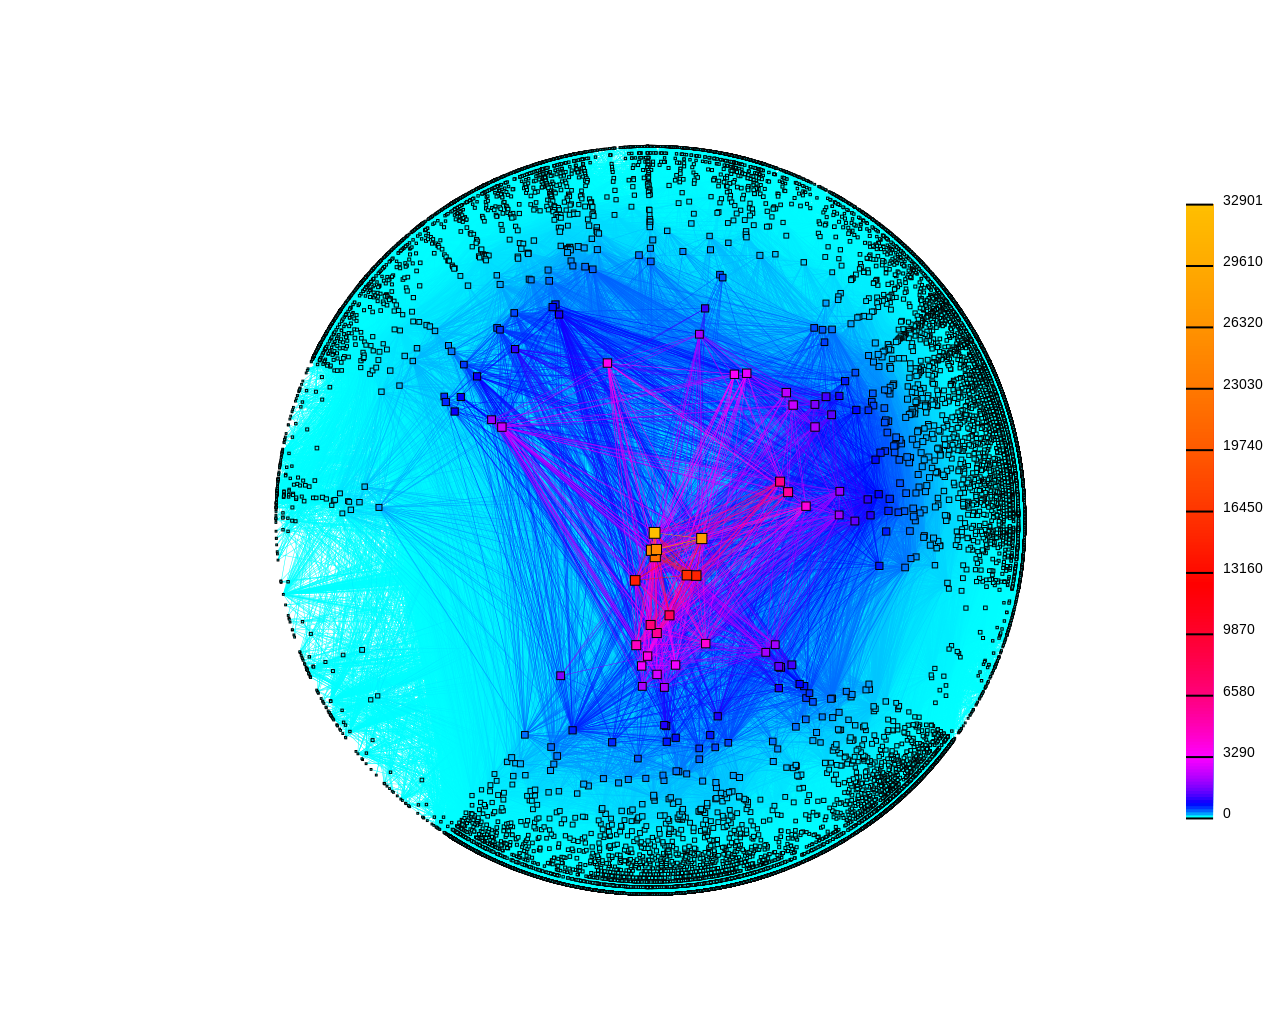
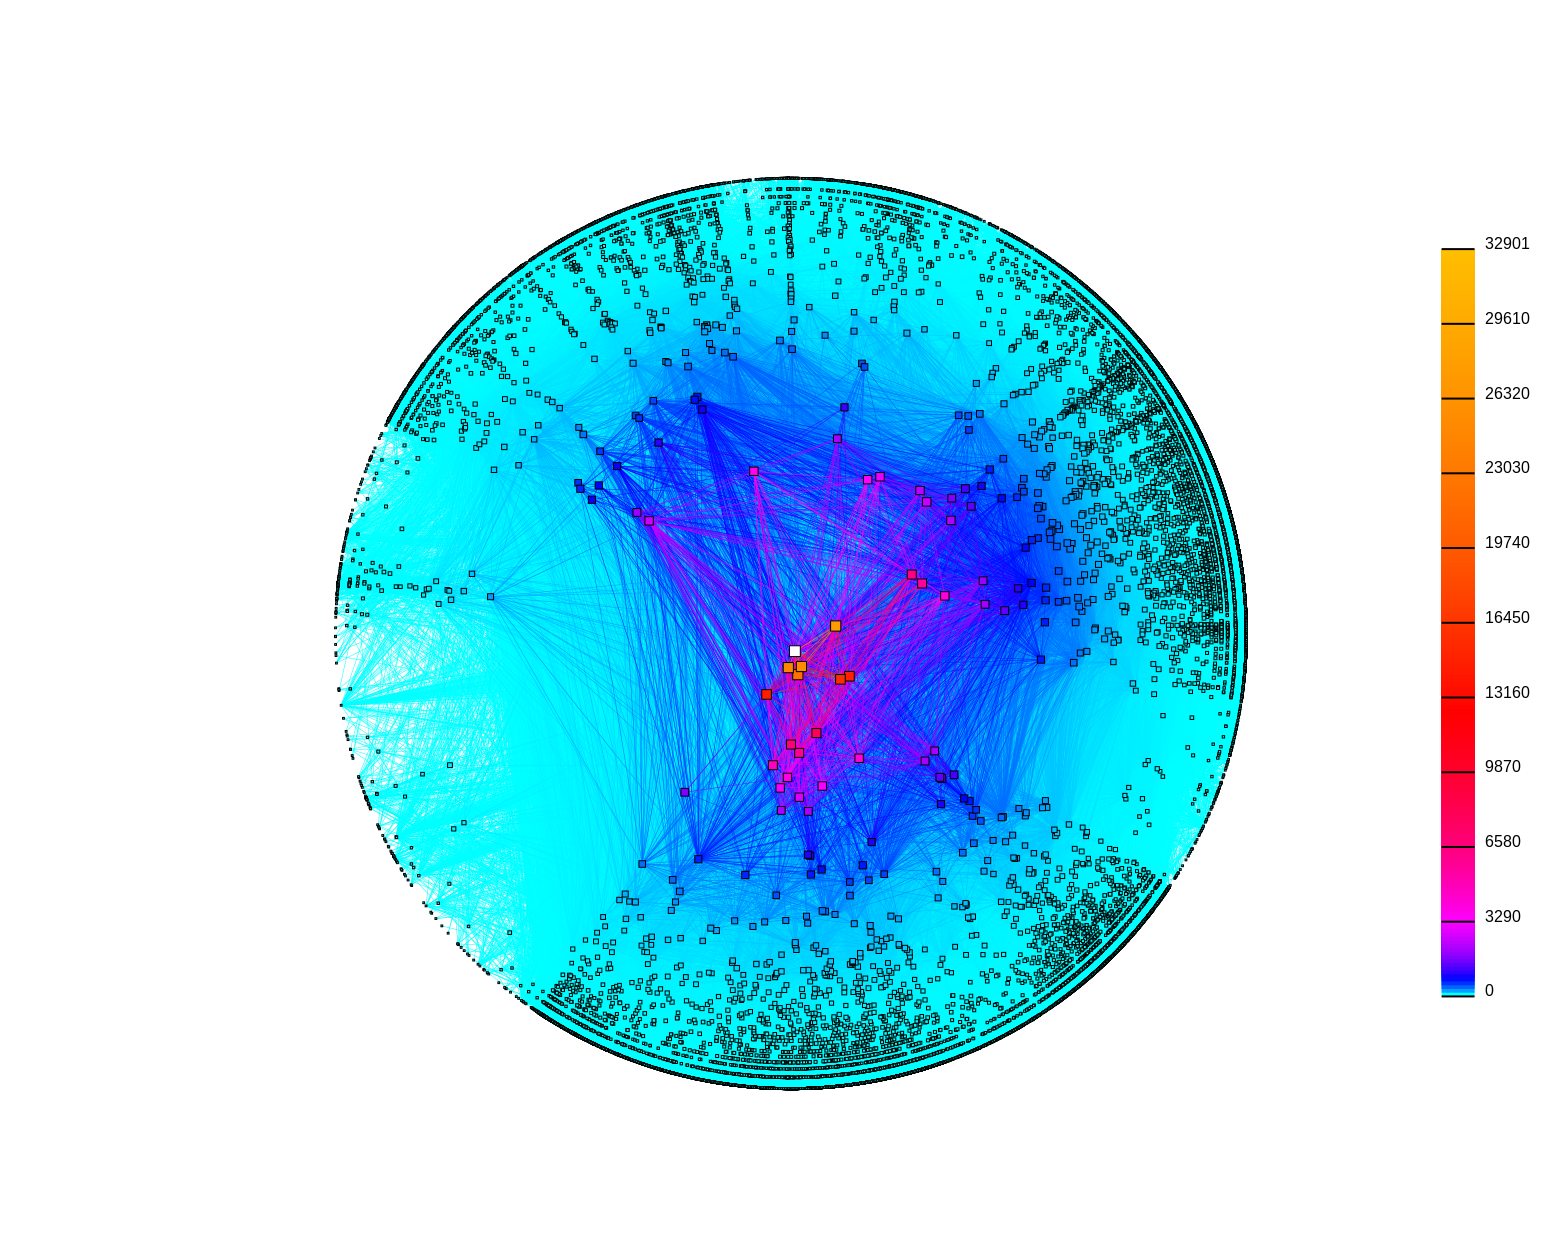
fixing fisheye effect

diff --git a/as-core-graph.py b/as-core-graph.py
@@ -42,7 +42,7 @@ def main(argv):
     #parser.add_argument("-l", type=str, dest="links", help="loads in the asn links file")
     #parser.add_argument("-a", type=str, dest="asns", help="loads in the asn links file")
     parser.add_argument("-u", type=str, dest="url", help="loads in the API url")
-    parser.add_argument("-f", type=int, dest="focus", help="number of AS to focus on using fisheye effect")
+    parser.add_argument("-f", type=int, nargs='?', const=-1, dest="focus", help="number of AS to focus on using fisheye effect")
     parser.add_argument("-k", dest="print_key", help="prints out color key for visualization", action="store_true")
     parser.add_argument("-v", dest="verbose", help="prints out lots of messages", action="store_true")
     args = parser.parse_args()
@@ -51,11 +51,12 @@ def main(argv):
         print_help()
         sys.exit()
 
-    if args.focus is None:
-        print_Help()
-        sys.exit()
-    else:
-        focus_asn = args.focus
+    if args.focus is not None:    
+        if args.focus > -1:
+            focus_asn = args.focus
+        else: 
+            print_help()
+            sys.exit()
 
     if args.print_key:
         print_key = True
@@ -220,7 +221,6 @@ def SetUpPosition():
     for AS in asns:
         value = key_function(AS)
         angle = -2 * 3.14 * float(AS["longitude"]) / 360
-        AS["angle"] = angle
         radius = (math.log(max_value+1) - math.log(value+1) +.5)*100
         size = int((MAX_SIZE-3)* (math.log(value+1)/math.log(max_value+1)) )+3;
         #calculate new x and y using polar coordinate math
@@ -236,12 +236,11 @@ def SetUpPosition():
             focus_x = AS["x"]
             focus_y = AS["y"]
     for AS in asns:
+        x = AS["x"]
+        y = AS["y"]
         #remap asns if using fisheye effect
         if focus_asn > -1:
-            x = AS["x"]
-            y = AS["y"]
-            angle = AS["angle"]
-            new_coords = FishEye(x, y, AS["angle"], focus_x, focus_y)
+            new_coords = FishEye(x, y, focus_x, focus_y)
             AS["x"]  = x = new_coords[0]
             AS["y"]  = y = new_coords[1]
         #adjust min and max x based on new X
@@ -260,13 +259,13 @@ def SetUpPosition():
             min_y = y
         elif y+size > max_y: 
             max_y = y+size
-
+    
     #increase min max x y slightly, move all ASNes to adjust 
     min_x += min_x*.05
     min_y += min_y*.05
     for AS in asns:
         AS["x"] -= min_x
-        AS["y"] -= min_y
+        AS["y"] -= min_y  
     max_x -= min_x
     max_y -= min_y
     min_x = min_y = 0
@@ -411,18 +410,21 @@ def hsv2rgb (new_h, new_s, new_v):
         b = v * (255 - s * f)
     return [r, g, b]
 #helper function to apply fisheye effect to a pair of xy coordinates 
-def FishEye(x, y, angle, focus_x, focus_y):
-    #focal length of the "lens"    
-    r = math.sqrt(math.pow(x - focus_x, 2) + math.pow(y-focus_y, 2))
-    f = 500
+def FishEye(x, y, focus_x, focus_y):
+    #calculate distance and angle from focus point 
+    angle = math.atan2(y - focus_y, x - focus_x) 
+    r = math.sqrt(math.pow(x-focus_x, 2) + math.pow(y - focus_y, 2))
+    #focal length of the "lens"  
+    f = 750
     #angle from optical axis
-    theta = math.atan(r/f)
+    theta = math.atan2(r,f)
+    #calculate new distance from focus point
     new_r = math.tan(theta/2) * 2 * f
     #new_r = theta * f    
     #new_r = 2 * f * math.sin(theta/2)
     #new_r = f * math.sin(theta)    
-    new_x = focus_x + new_r * math.cos(angle)
-    new_y = focus_y + new_r * math.sin(angle)  
+    new_x = focus_x + (new_r * math.cos(angle))
+    new_y = focus_y + (new_r * math.sin(angle)) 
     return (new_x, new_y)
     
 #method to print the visualization onto an image
@@ -506,7 +508,10 @@ def PrintNodes(cr, scale):
             #plot point
             cr.rectangle(x, y, size, size)
             #fill with color 
-            cr.set_source_rgb(color[0], color[1], color[2])
+            if focus_asn == int(AS["id"]):
+                cr.set_source_rgb(1, 1, 1)
+            else:
+                cr.set_source_rgb(color[0], color[1], color[2])
             cr.fill_preserve()
             #outline	
             cr.set_source_rgb(0, 0, 0)
